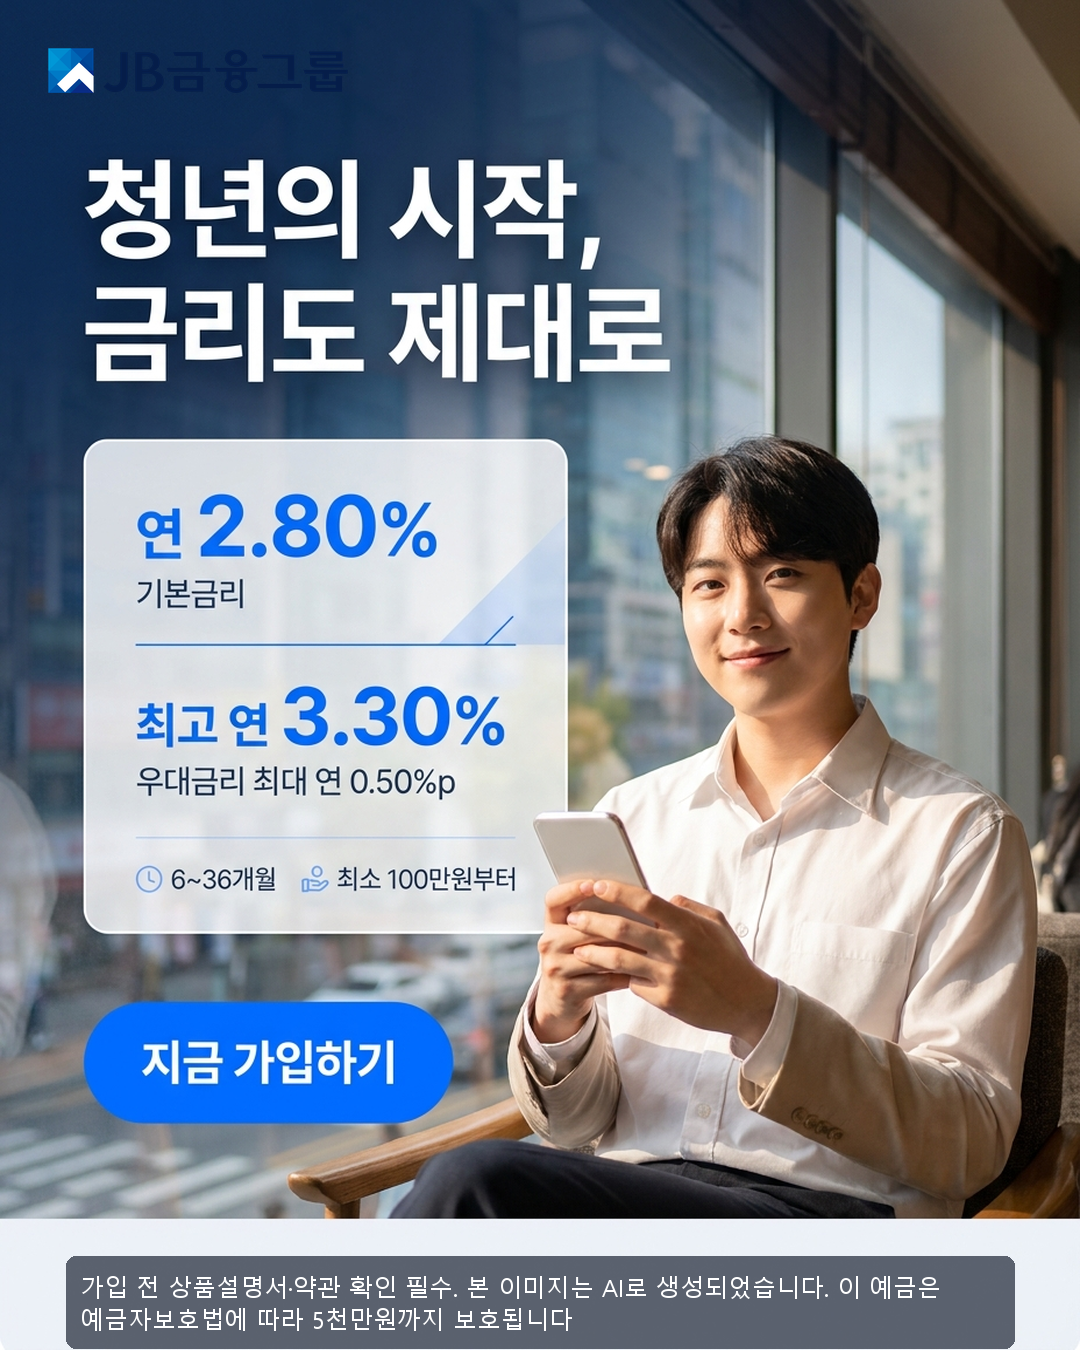
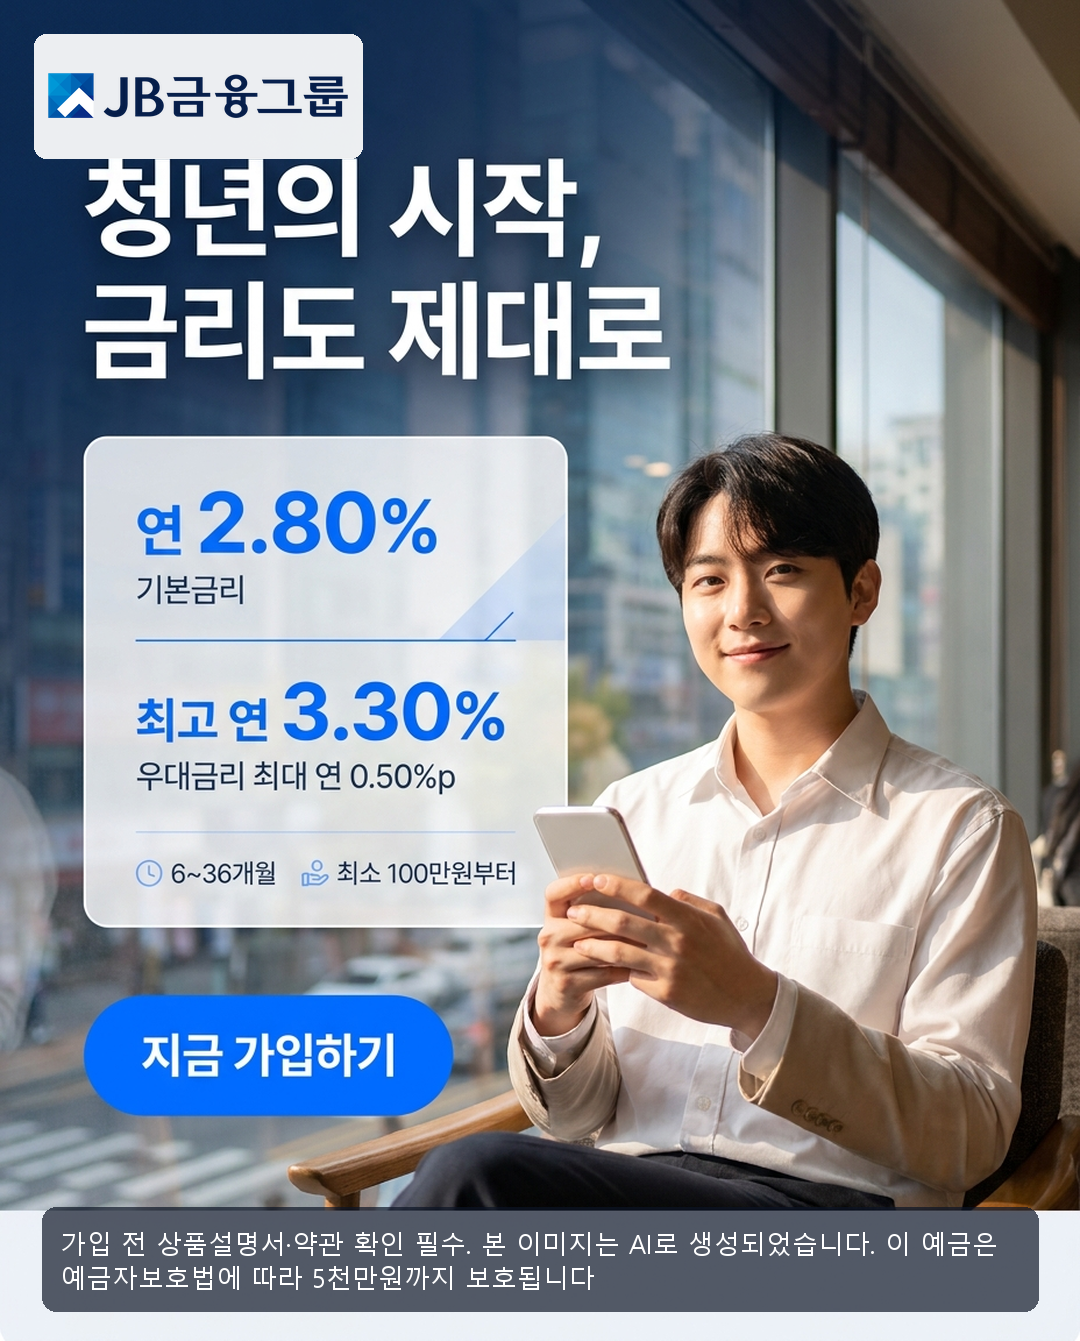
feat(design): 로고 대비 플레이트 + 베이크 세이프존 강화 (오버레이 폴리시)
실측 폴리시 이슈:
- 로고가 어두운 배경 위에서 묻힘(네이비 로고 vs 창문 배경) → 안 보임
- CTA가 하단 고지 safe zone에 낮게 베이크돼 고지 오버레이와 겹침

수정:
- sceneAssembler: 로고 뒤에 밝은 라운드 플레이트(logoPlate, role=logo_plate)를
  깔아 배경 무관 대비 확보(실제 은행 포스터 로고 락업 방식). scrim 카운트·logo
  image 타입 등 기존 계약 불변 → sceneAssembler/sceneWiring/sceneWins 테스트 통과.
- _bake_prompt: 좌상단(로고)은 밝은 오프화이트로 비우고, 최하단 고지 스트립도
  예약해 CTA가 침범하지 않도록 세이프존 지시 강화.

검증: 청년 합성 시 로고가 밝은 플레이트 위 또렷이 표시(composite/B 갱신).

Changed region(s): [[0.0306, 0.8867, 0.9778, 1.0], [0.0306, 0.0, 0.3361, 0.1223]]

diff --git a/frontend/lib/sceneAssembler.ts b/frontend/lib/sceneAssembler.ts
@@ -69,6 +69,19 @@ function scrimFor(bb: BBox, color: string, role: string): any {
   };
 }
 
+/** 로고 뒤 밝은 라운드 플레이트(대비 보장). 배경이 어두우면 네이비 로고가 묻히므로(실측)
+ *  로고 bbox보다 살짝 크게 반투명 화이트 판을 깔아 배경과 무관한 가독성을 확보한다
+ *  (실제 은행 포스터의 로고 락업 방식). role="logo_plate"라 scrim 카운트에 영향 없음. */
+function logoPlate(bb: BBox): any {
+  const pad = 14;
+  return {
+    type: "rect", left: bb.x - pad, top: bb.y - pad,
+    width: bb.w + pad * 2, height: bb.h + pad * 2,
+    fill: "rgba(255,255,255,0.92)", rx: 12, ry: 12,
+    role: "logo_plate", slotId: "logo",
+  };
+}
+
 /** layout.spec + 언어 → Fabric JSON(toJSON 호환). assetUrl로 asset_ref 해석. */
 export function assembleScene(
   spec: LayoutSpec, lang: string, assetUrl: (ref: string) => string,
@@ -88,7 +101,10 @@ export function assembleScene(
         const ref = s.role === "background"
           ? (spec.visual_by_lang?.[lang] ?? s.asset_ref)
           : s.asset_ref;
-        return [{ ...common, type: "image", src: ref ? assetUrl(ref) : "" }];
+        const img = { ...common, type: "image", src: ref ? assetUrl(ref) : "" };
+        // 로고는 대비 보장용 밝은 플레이트를 뒤에 깔고(먼저 방출=낮은 z) 그 위에 로고 이미지.
+        if (s.role === "logo") return [logoPlate(bb), img];
+        return [img];
       }
       // 헤드라인/바디/CTA는 배경에 베이크됨 → 어떤 객체도 방출하지 않음. disclosure만 오버레이.
       if (s.role !== "disclosure") return [];

diff --git a/backend/app/gateway/design/steps.py b/backend/app/gateway/design/steps.py
@@ -294,8 +294,11 @@ class S2aVisual(PipelineStep):
         lines.append(
             "색 위계를 살리세요: 헤드라인·CTA는 브랜드 포인트 컬러로 뚜렷한 색 대비를 주고, "
             "CTA는 버튼처럼 눈에 띄게. 한 가지 어두운 색으로 단조롭게 처리하지 마세요.")
-        lines.append("좌상단 모서리와 하단 스트립은 텍스트·로고 없이 비워 두세요"
-                     "(공식 로고·법령 고지 오버레이 영역).")
+        lines.append(
+            "오버레이 세이프존을 반드시 확보하세요: **좌상단 모서리(로고 자리)는 밝은 오프화이트 "
+            "단색으로 깨끗이 비우고**(어두운 배경이 오면 로고가 묻힘), **최하단 가로 스트립(법령 "
+            "고지 자리)도 요소·텍스트 없이 비워** 두세요. CTA 버튼은 이 하단 고지 스트립 위쪽에 "
+            "충분한 여백을 두고 배치해 겹치지 않게 하세요.")
         # 부수 텍스트 footgun 차단: 모델이 폰 화면·간판·빈 영역에 깨진 잔글씨나
         # 'LOGO' 같은 placeholder를 멋대로 굽는다(실측 2026-06-30). 명시 카피만 허용.
         lines.append(
